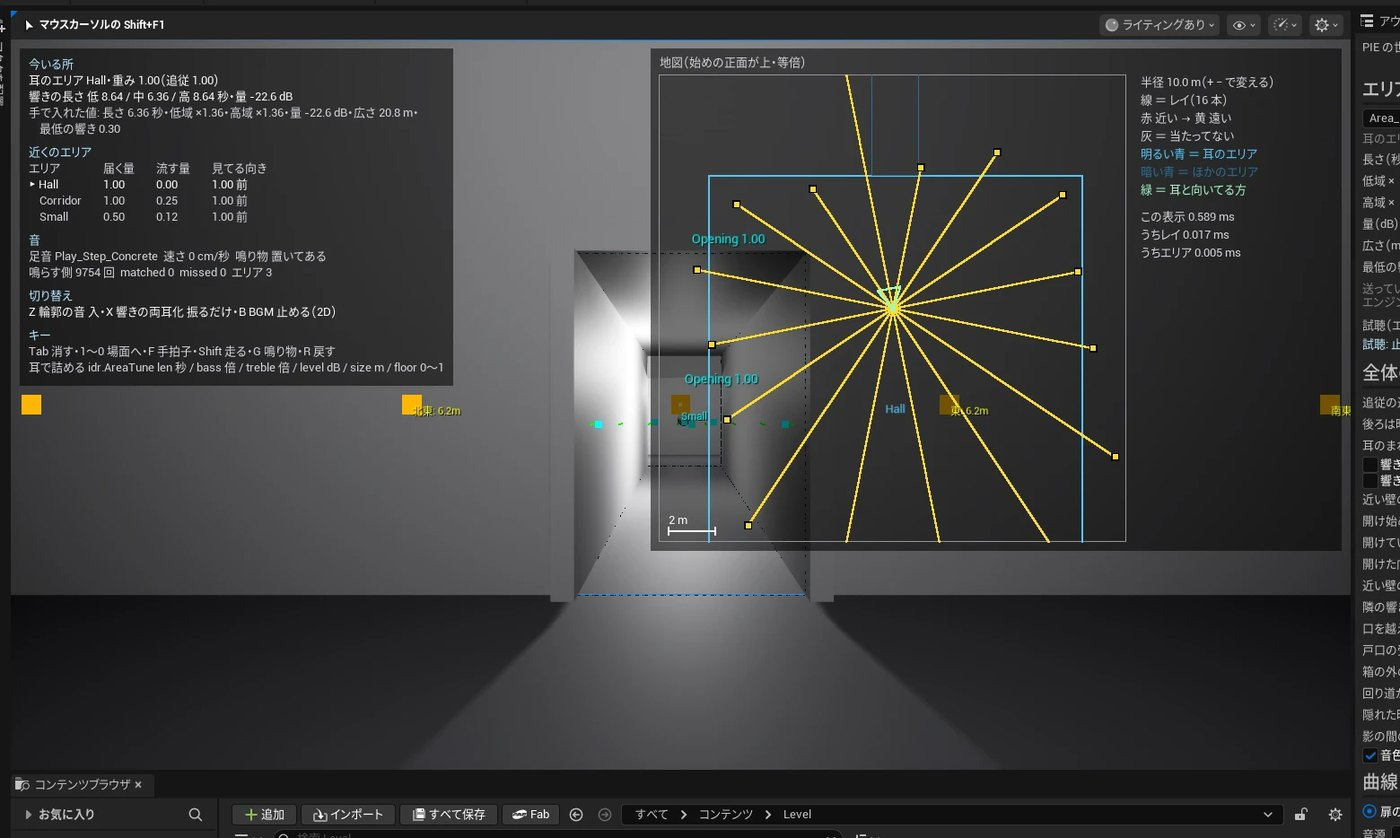
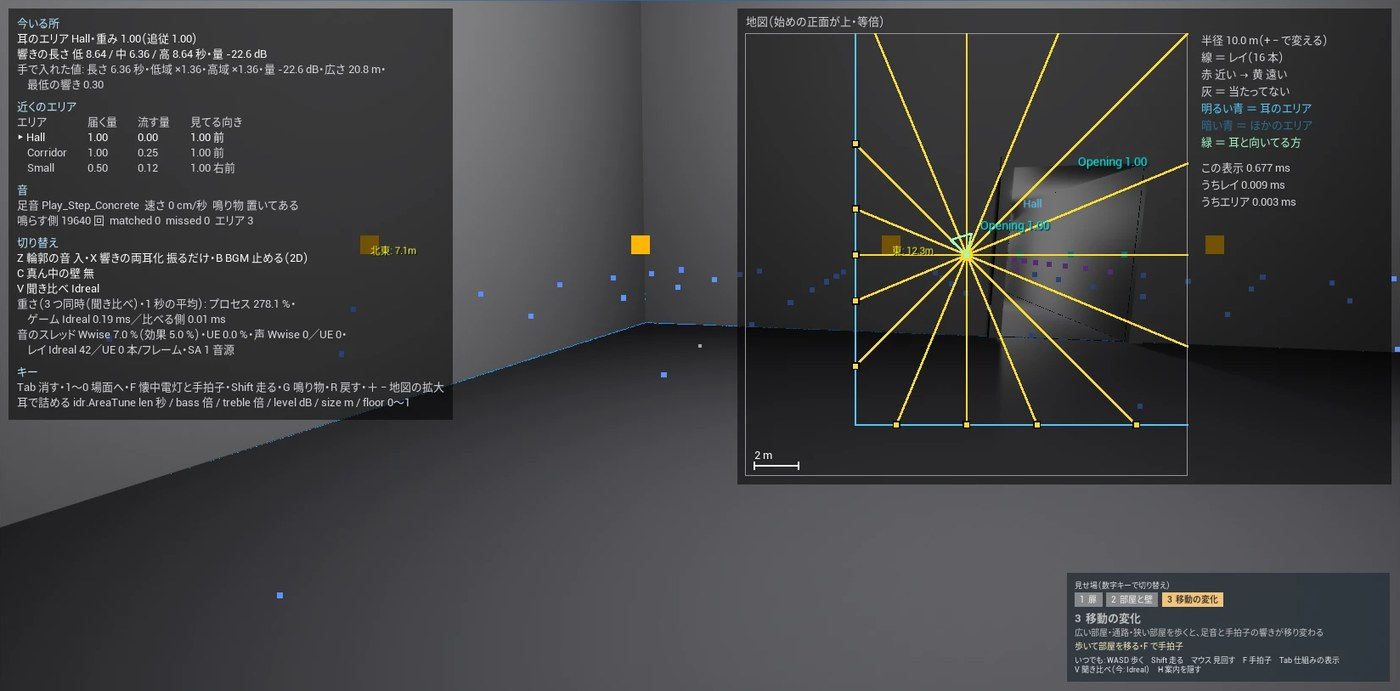
作品の画像: 探索型ホラーゲーム（新規、左上の 0/4 を外して 16:9）・IdReal（差し替え、窓の縁だけ外して横長のまま）。制作中の印（IdReal・ホラー・友人作品A・B）。好きなゲーム体験: 見出しを変え、帯をループに（同じ 1 組を 5 組並べて端で 1 組戻す）

diff --git a/index.html b/index.html
@@ -243,6 +243,11 @@ button{font:inherit}
 .w-pts p{font-size:13px; color:var(--night-muted); line-height:1.7; margin-top:2px}
 .w-more{display:inline-block; margin-top:28px; padding:9px 36px; border:1px solid var(--wa); border-radius:3px; color:var(--wa); font-family:var(--f-label); font-size:13px; letter-spacing:.22em; text-decoration:none}
 .w-more[aria-disabled="true"]{opacity:.45; cursor:default}
+/* 制作中の印（題の横、点がゆっくり明滅） */
+.w-wip{display:inline-flex; align-items:center; gap:7px; margin-left:16px; padding:3px 12px 3px 10px; border:1px solid var(--wa); border-radius:999px; color:var(--wa); font-family:var(--f-body); font-weight:700; font-size:13px; letter-spacing:.12em; line-height:1.5; vertical-align:middle; white-space:nowrap; transform:translateY(-.12em)}
+.w-wip::before{content:""; width:7px; height:7px; border-radius:50%; background:currentColor; animation:wip 1.8s ease-in-out infinite}
+@keyframes wip{50%{opacity:.2}}
+@media (prefers-reduced-motion: reduce){ .w-wip::before{animation:none} }
 /* 作品の概要の表（人数・期間・担当・環境）。注目点の見出しのすぐ下、こだわり 2 つの上 */
 .w-facts{margin:14px 0 0}
 .w-facts div{display:grid; grid-template-columns:3.6em minmax(0,1fr); column-gap:14px; padding:7px 0; border-bottom:1px solid var(--night-line)}
@@ -272,11 +277,12 @@ button{font:inherit}
   .w-pts p{font-size:15.5px; line-height:1.85; margin-top:4px}
   .w-facts dt{font-size:14px}
   .w-facts dd{font-size:15.5px}
+  .w-wip{font-size:14px}
   .w-more{display:block; width:fit-content; margin:clamp(32px, 6vh, 68px) auto 0; padding:15px 68px; font-size:16px; letter-spacing:.26em}  /* 右へ寄せて（注目点の真ん中）・離して・大きく */
 }
 @media (max-width:480px){ .w-pts{grid-template-columns:minmax(0,1fr); gap:16px} }
 
-/* 02 の続き：ゲームでの好きな体験。左にスクショのモザイク（3 段、横に流す）、右に解説。--fc は選んだ 1 本の色。
+/* 02 の続き：好きなゲーム体験。左にスクショのモザイク（3 段、横に流す）、右に解説。--fc は選んだ 1 本の色。
    背景は選んだ 1 本の色のにじみ、画像があればそれをぼかして暗くした物 */
 .p-fav{background:var(--black)}
 .p-fav .bg{background:radial-gradient(ellipse 55% 60% at 30% 55%, color-mix(in srgb, var(--fc, #7DB8D1) 16%, transparent), transparent 70%), var(--black)}
@@ -302,7 +308,6 @@ button{font:inherit}
 .fav-ctrl{display:flex; align-items:center; gap:10px; margin-top:12px}
 .fav-arrow{flex:none; width:40px; height:40px; display:grid; place-items:center; border:1px solid var(--night-line); border-radius:50%; background:rgba(255,255,255,.04); color:var(--night-ink); cursor:pointer}
 .fav-arrow svg{width:18px; height:18px}
-.fav-arrow:disabled{opacity:.3; cursor:default}
 .fav-hint{margin-left:6px; font-size:12.5px; color:var(--night-muted)}
 .fav-hint .sp{display:none}
 @media (max-width:860px){ .fav-hint .pc{display:none} .fav-hint .sp{display:inline} }
@@ -573,7 +578,7 @@ button{font:inherit}
     </div>
   </section>
 
-  <!-- 02 の続き：ゲームでの好きな体験。左にスクショのモザイク（横に流す）、押すと右（スマホは下）に解説。
+  <!-- 02 の続き：好きなゲーム体験。左にスクショのモザイク（横に流す、ループする）、押すと右（スマホは下）に解説。
        1 本 = li 1 つ。場所は style の grid-area（行 / 列 / 縦の数 / 横の数、3 段）、色は --fc。
        画像は .fav-tile の中に img（自分で撮ったスクショ）、解説は .fav-info の中（押すと右の欄へ写す） -->
   <section class="panel dark p-fav" id="fav" data-nav="profile" aria-labelledby="h-fav">
@@ -581,14 +586,14 @@ button{font:inherit}
     <div class="wrap">
       <div class="fav-head">
         <p class="eyebrow"><span class="no">01</span>Favorite Games</p>
-        <h2 id="h-fav">ゲームでの好きな体験</h2>
+        <h2 id="h-fav">好きなゲーム体験</h2>
       </div>
       <div class="fav-grid">
         <div class="fav-left">
           <div class="fav-strip" id="fav-strip">
             <ul class="fav-tiles">
               <li style="grid-area:1/1/span 2/span 2; --fc:#5E8FB0">
-                <button type="button" class="fav-tile" aria-controls="fav-detail" aria-pressed="false" aria-label="好きな体験 01（準備中）"><span class="fav-tag">01</span><span class="fav-ph" aria-hidden="true">SCREENSHOT</span></button>
+                <button type="button" class="fav-tile" aria-controls="fav-detail" aria-pressed="false" aria-label="好きなゲーム体験 01（準備中）"><span class="fav-tag">01</span><span class="fav-ph" aria-hidden="true">SCREENSHOT</span></button>
                 <div class="fav-info" hidden>
                   <h3 class="fav-title"><span class="todo">ゲーム名（準備中）</span></h3>
                   <p class="fav-scene"><span class="todo">場面（準備中）</span></p>
@@ -602,7 +607,7 @@ button{font:inherit}
                 </div>
               </li>
               <li style="grid-area:3/1/span 1/span 2; --fc:#B07A5E">
-                <button type="button" class="fav-tile" aria-controls="fav-detail" aria-pressed="false" aria-label="好きな体験 02（準備中）"><span class="fav-tag">02</span><span class="fav-ph" aria-hidden="true">SCREENSHOT</span></button>
+                <button type="button" class="fav-tile" aria-controls="fav-detail" aria-pressed="false" aria-label="好きなゲーム体験 02（準備中）"><span class="fav-tag">02</span><span class="fav-ph" aria-hidden="true">SCREENSHOT</span></button>
                 <div class="fav-info" hidden>
                   <h3 class="fav-title"><span class="todo">ゲーム名（準備中）</span></h3>
                   <p class="fav-scene"><span class="todo">場面（準備中）</span></p>
@@ -616,7 +621,7 @@ button{font:inherit}
                 </div>
               </li>
               <li style="grid-area:1/3/span 1/span 1; --fc:#8A7BB8">
-                <button type="button" class="fav-tile" aria-controls="fav-detail" aria-pressed="false" aria-label="好きな体験 03（準備中）"><span class="fav-tag">03</span><span class="fav-ph" aria-hidden="true">SCREENSHOT</span></button>
+                <button type="button" class="fav-tile" aria-controls="fav-detail" aria-pressed="false" aria-label="好きなゲーム体験 03（準備中）"><span class="fav-tag">03</span><span class="fav-ph" aria-hidden="true">SCREENSHOT</span></button>
                 <div class="fav-info" hidden>
                   <h3 class="fav-title"><span class="todo">ゲーム名（準備中）</span></h3>
                   <p class="fav-scene"><span class="todo">場面（準備中）</span></p>
@@ -630,7 +635,7 @@ button{font:inherit}
                 </div>
               </li>
               <li style="grid-area:2/3/span 2/span 1; --fc:#6FA287">
-                <button type="button" class="fav-tile" aria-controls="fav-detail" aria-pressed="false" aria-label="好きな体験 04（準備中）"><span class="fav-tag">04</span><span class="fav-ph" aria-hidden="true">SCREENSHOT</span></button>
+                <button type="button" class="fav-tile" aria-controls="fav-detail" aria-pressed="false" aria-label="好きなゲーム体験 04（準備中）"><span class="fav-tag">04</span><span class="fav-ph" aria-hidden="true">SCREENSHOT</span></button>
                 <div class="fav-info" hidden>
                   <h3 class="fav-title"><span class="todo">ゲーム名（準備中）</span></h3>
                   <p class="fav-scene"><span class="todo">場面（準備中）</span></p>
@@ -644,7 +649,7 @@ button{font:inherit}
                 </div>
               </li>
               <li style="grid-area:1/4/span 1/span 2; --fc:#B8A05E">
-                <button type="button" class="fav-tile" aria-controls="fav-detail" aria-pressed="false" aria-label="好きな体験 05（準備中）"><span class="fav-tag">05</span><span class="fav-ph" aria-hidden="true">SCREENSHOT</span></button>
+                <button type="button" class="fav-tile" aria-controls="fav-detail" aria-pressed="false" aria-label="好きなゲーム体験 05（準備中）"><span class="fav-tag">05</span><span class="fav-ph" aria-hidden="true">SCREENSHOT</span></button>
                 <div class="fav-info" hidden>
                   <h3 class="fav-title"><span class="todo">ゲーム名（準備中）</span></h3>
                   <p class="fav-scene"><span class="todo">場面（準備中）</span></p>
@@ -658,7 +663,7 @@ button{font:inherit}
                 </div>
               </li>
               <li style="grid-area:2/4/span 1/span 1; --fc:#B06A84">
-                <button type="button" class="fav-tile" aria-controls="fav-detail" aria-pressed="false" aria-label="好きな体験 06（準備中）"><span class="fav-tag">06</span><span class="fav-ph" aria-hidden="true">SCREENSHOT</span></button>
+                <button type="button" class="fav-tile" aria-controls="fav-detail" aria-pressed="false" aria-label="好きなゲーム体験 06（準備中）"><span class="fav-tag">06</span><span class="fav-ph" aria-hidden="true">SCREENSHOT</span></button>
                 <div class="fav-info" hidden>
                   <h3 class="fav-title"><span class="todo">ゲーム名（準備中）</span></h3>
                   <p class="fav-scene"><span class="todo">場面（準備中）</span></p>
@@ -672,7 +677,7 @@ button{font:inherit}
                 </div>
               </li>
               <li style="grid-area:2/5/span 1/span 1; --fc:#5EA6A2">
-                <button type="button" class="fav-tile" aria-controls="fav-detail" aria-pressed="false" aria-label="好きな体験 07（準備中）"><span class="fav-tag">07</span><span class="fav-ph" aria-hidden="true">SCREENSHOT</span></button>
+                <button type="button" class="fav-tile" aria-controls="fav-detail" aria-pressed="false" aria-label="好きなゲーム体験 07（準備中）"><span class="fav-tag">07</span><span class="fav-ph" aria-hidden="true">SCREENSHOT</span></button>
                 <div class="fav-info" hidden>
                   <h3 class="fav-title"><span class="todo">ゲーム名（準備中）</span></h3>
                   <p class="fav-scene"><span class="todo">場面（準備中）</span></p>
@@ -686,7 +691,7 @@ button{font:inherit}
                 </div>
               </li>
               <li style="grid-area:3/4/span 1/span 2; --fc:#9A8F7E">
-                <button type="button" class="fav-tile" aria-controls="fav-detail" aria-pressed="false" aria-label="好きな体験 08（準備中）"><span class="fav-tag">08</span><span class="fav-ph" aria-hidden="true">SCREENSHOT</span></button>
+                <button type="button" class="fav-tile" aria-controls="fav-detail" aria-pressed="false" aria-label="好きなゲーム体験 08（準備中）"><span class="fav-tag">08</span><span class="fav-ph" aria-hidden="true">SCREENSHOT</span></button>
                 <div class="fav-info" hidden>
                   <h3 class="fav-title"><span class="todo">ゲーム名（準備中）</span></h3>
                   <p class="fav-scene"><span class="todo">場面（準備中）</span></p>
@@ -700,7 +705,7 @@ button{font:inherit}
                 </div>
               </li>
               <li style="grid-area:1/6/span 2/span 2; --fc:#7F96C8">
-                <button type="button" class="fav-tile" aria-controls="fav-detail" aria-pressed="false" aria-label="好きな体験 09（準備中）"><span class="fav-tag">09</span><span class="fav-ph" aria-hidden="true">SCREENSHOT</span></button>
+                <button type="button" class="fav-tile" aria-controls="fav-detail" aria-pressed="false" aria-label="好きなゲーム体験 09（準備中）"><span class="fav-tag">09</span><span class="fav-ph" aria-hidden="true">SCREENSHOT</span></button>
                 <div class="fav-info" hidden>
                   <h3 class="fav-title"><span class="todo">ゲーム名（準備中）</span></h3>
                   <p class="fav-scene"><span class="todo">場面（準備中）</span></p>
@@ -714,7 +719,7 @@ button{font:inherit}
                 </div>
               </li>
               <li style="grid-area:3/6/span 1/span 2; --fc:#C08A5A">
-                <button type="button" class="fav-tile" aria-controls="fav-detail" aria-pressed="false" aria-label="好きな体験 10（準備中）"><span class="fav-tag">10</span><span class="fav-ph" aria-hidden="true">SCREENSHOT</span></button>
+                <button type="button" class="fav-tile" aria-controls="fav-detail" aria-pressed="false" aria-label="好きなゲーム体験 10（準備中）"><span class="fav-tag">10</span><span class="fav-ph" aria-hidden="true">SCREENSHOT</span></button>
                 <div class="fav-info" hidden>
                   <h3 class="fav-title"><span class="todo">ゲーム名（準備中）</span></h3>
                   <p class="fav-scene"><span class="todo">場面（準備中）</span></p>
@@ -750,10 +755,10 @@ button{font:inherit}
       <div class="w-grid">
         <div class="w-head">
           <p class="eyebrow"><span class="no">02</span>Works <span class="w-idx">01 / 07</span></p>
-          <h2 id="w1-title">IdReal</h2>
+          <h2 id="w1-title">IdReal<span class="w-wip">制作中</span></h2>
           <p class="w-lead">自作の音響エンジン。部屋ごとの残響、遮蔽、直接音の定位。</p>
         </div>
-        <div class="w-shot"><img src="img/works/idreal.jpg" width="1400" height="838" alt="IdReal のデバッグ表示（耳のまわりのレイと部屋の地図）" decoding="async"></div>
+        <div class="w-shot" style="aspect-ratio:1400/691"><img src="img/works/idreal.jpg?v=2" width="1400" height="691" alt="IdReal のデバッグ表示（今いるエリアの響きの値と、耳から出る 16 本のレイを描いた部屋の地図）" decoding="async"></div>
         <div class="w-detail">
           <div class="w-pts-head">
             <h3>プロジェクト注目点</h3>
@@ -774,10 +779,10 @@ button{font:inherit}
       <div class="w-grid">
         <div class="w-head">
           <p class="eyebrow"><span class="no">02</span>Works <span class="w-idx">02 / 07</span></p>
-          <h2 id="w2-title">探索型ホラーゲーム</h2>
+          <h2 id="w2-title">探索型ホラーゲーム<span class="w-wip">制作中</span></h2>
           <p class="w-lead">足音と響きで怖さを伝える探索ゲーム。Unreal Engine 5.6 ＋ Wwise。</p>
         </div>
-        <div class="w-shot">画像 準備中</div>
+        <div class="w-shot"><img src="img/works/horror.jpg" width="1400" height="788" alt="探索型ホラーゲームの画面（懐中電灯で照らした暗い部屋、隅に人形、奥に扉）" decoding="async"></div>
         <div class="w-detail">
           <div class="w-pts-head">
             <h3>プロジェクト注目点</h3>
@@ -870,7 +875,7 @@ button{font:inherit}
       <div class="w-grid">
         <div class="w-head">
           <p class="eyebrow"><span class="no">02</span>Works <span class="w-idx">06 / 07</span></p>
-          <h2 id="w6-title">友人作品A</h2>
+          <h2 id="w6-title">友人作品A<span class="w-wip">制作中</span></h2>
           <p class="w-lead"><span class="todo">準備中</span></p>
         </div>
         <div class="w-shot">画像 準備中</div>
@@ -894,7 +899,7 @@ button{font:inherit}
       <div class="w-grid">
         <div class="w-head">
           <p class="eyebrow"><span class="no">02</span>Works <span class="w-idx">07 / 07</span></p>
-          <h2 id="w7-title">友人作品B</h2>
+          <h2 id="w7-title">友人作品B<span class="w-wip">制作中</span></h2>
           <p class="w-lead"><span class="todo">準備中</span></p>
         </div>
         <div class="w-shot">画像 準備中</div>
@@ -1185,18 +1190,50 @@ button{font:inherit}
   document.addEventListener('visibilitychange', function(){ if (document.hidden) stop(); });
   if (document.fonts && document.fonts.ready) document.fonts.ready.then(function(){ frame(performance.now() / 1000); });
 
-  // ---- 好きな体験：タイルを押すと右（スマホは下）に解説。横はドラッグ・← → でも動く ----
-  // 縦のホイールは今までどおり次の節へ（横のスクロールだけブラウザに任せている）
+  // ---- 好きなゲーム体験：タイルを押すと右（スマホは下）に解説。帯はループする ----
+  // 同じ 1 組（li の並び）を 5 組並べて真ん中の組（元の li）を見せ、端へ寄ったら 1 組ぶん戻す（見た目が同じなので継ぎ目は見えない）。
+  // 横はタッチパッド・ドラッグ・← →。縦のホイールは今までどおり次の節へ
   (function(){
     var sec = document.getElementById('fav');
     if (!sec) return;
-    var strip = document.getElementById('fav-strip');
-    var items = Array.prototype.slice.call(sec.querySelectorAll('.fav-tiles > li'));
+    var strip = document.getElementById('fav-strip'), list = strip.querySelector('.fav-tiles');
+    var items = Array.prototype.slice.call(list.children);
     var noEl = sec.querySelector('.fav-no'), body = sec.querySelector('.fav-body'), arrows = sec.querySelectorAll('.fav-arrow');
-    var dragging = false, dragMoved = false, dragX = 0, dragL = 0;
+    var COPIES = 5, MID = 2, cols = 0, copies = [];
+    var base = items.map(function(li){ return parseInt(li.style.gridColumnStart, 10) || 1; });
+    items.forEach(function(li, i){ cols = Math.max(cols, base[i] + (parseInt((li.style.gridColumnEnd || '').replace('span', ''), 10) || 1) - 1); });
+    // 組を作る（真ん中は元の li、ほかは写し：読み上げ・Tab の対象にしない）
+    for (var k = 0; k < COPIES; k++){
+      copies.push(items.map(function(li, i){
+        var c = li;
+        if (k !== MID){
+          c = li.cloneNode(true);
+          c.setAttribute('aria-hidden', 'true');
+          c.querySelector('.fav-tile').setAttribute('tabindex', '-1');
+          var inf = c.querySelector('.fav-info'); if (inf) inf.parentNode.removeChild(inf);
+        }
+        c.style.gridColumnStart = String(base[i] + cols * k);
+        return c;
+      }));
+    }
+    var pre = document.createDocumentFragment(), post = document.createDocumentFragment();
+    copies.forEach(function(set, k){ if (k !== MID) set.forEach(function(c){ (k < MID ? pre : post).appendChild(c); }); });
+    list.insertBefore(pre, list.firstChild); list.appendChild(post);
+
+    var dragging = false, dragMoved = false, dragX = 0, dragL = 0, touching = false, glideAnim = null, idle = 0;
+    function setW(){ return copies[1][0].offsetLeft - copies[0][0].offsetLeft; }
+    // 今の位置が lo〜hi 組の外なら 1 組ずつ戻す。戻した量を返す
+    function wrap(lo, hi){
+      var W = setW(); if (W <= 0) return 0;
+      var x = strip.scrollLeft, d = 0;
+      while (x + d < W * lo) d += W;
+      while (x + d > W * hi) d -= W;
+      if (d) strip.scrollLeft = x + d;
+      return d;
+    }
     function pad(n){ return (n < 10 ? '0' : '') + n; }
     function select(i){
-      items.forEach(function(li, k){ li.querySelector('.fav-tile').setAttribute('aria-pressed', k === i ? 'true' : 'false'); });
+      copies.forEach(function(set){ set.forEach(function(li, j){ li.querySelector('.fav-tile').setAttribute('aria-pressed', j === i ? 'true' : 'false'); }); });
       var li = items[i], info = li.querySelector('.fav-info'), img = li.querySelector('.fav-tile img');
       body.innerHTML = info ? info.innerHTML : '';
       noEl.textContent = pad(i + 1) + ' / ' + pad(items.length);
@@ -1204,46 +1241,70 @@ button{font:inherit}
       if (img){ sec.style.setProperty('--shot', 'url("' + img.getAttribute('src') + '")'); sec.classList.add('has-shot'); }
       else sec.classList.remove('has-shot');
     }
+    copies.forEach(function(set){
+      set.forEach(function(li, i){
+        li.querySelector('.fav-tile').addEventListener('click', function(e){ if (dragMoved){ e.preventDefault(); return; } select(i); });
+      });
+    });
+    // ← → キーで隣の 1 本へ（端からは反対の端へ）
     items.forEach(function(li, i){
-      var b = li.querySelector('.fav-tile');
-      b.addEventListener('click', function(e){ if (dragMoved){ e.preventDefault(); return; } select(i); });
-      // ← → で隣の 1 本へ
-      b.addEventListener('keydown', function(e){
+      li.querySelector('.fav-tile').addEventListener('keydown', function(e){
         if (e.key !== 'ArrowRight' && e.key !== 'ArrowLeft') return;
-        var j = i + (e.key === 'ArrowRight' ? 1 : -1);
-        if (j < 0 || j >= items.length) return;
         e.preventDefault();
+        var j = (i + (e.key === 'ArrowRight' ? 1 : -1) + items.length) % items.length;
         items[j].querySelector('.fav-tile').focus();
         select(j);
       });
     });
-    function upd(){
-      var m = strip.scrollWidth - strip.clientWidth;
-      arrows[0].disabled = strip.scrollLeft <= 2;
-      arrows[1].disabled = strip.scrollLeft >= m - 2;
+    // ← → のボタン：0.8 画面ぶん滑らせる（途中で継ぎ目を越えたら行き先ごと 1 組戻す）
+    function glide(dist){
+      if (reduce){ strip.scrollLeft += dist; wrap(1.4, 2.7); return; }
+      var from = strip.scrollLeft, to = from + dist, t0 = performance.now(), me = {};
+      glideAnim = me;
+      (function step(now){
+        if (glideAnim !== me) return;
+        var t = Math.min(1, Math.max(0, (now - t0) / 480)), e = 1 - Math.pow(1 - t, 3);
+        strip.scrollLeft = from + (to - from) * e;
+        var d = wrap(1, 3); if (d){ from += d; to += d; }
+        if (t < 1) requestAnimationFrame(step); else glideAnim = null;
+      })(t0);
     }
-    arrows.forEach(function(a){
-      a.addEventListener('click', function(){ strip.scrollBy({left: +a.dataset.dir * strip.clientWidth * 0.8, behavior: reduce ? 'auto' : 'smooth'}); });
-    });
-    strip.addEventListener('scroll', upd, {passive: true});
-    window.addEventListener('resize', upd);
+    arrows.forEach(function(a){ a.addEventListener('click', function(){ glide(+a.dataset.dir * strip.clientWidth * 0.8); }); });
+    // 指やタッチパッドで動かした後は、止まってから真ん中の組へ戻す（動いている最中に位置を変えると慣性が止まるので）
+    strip.addEventListener('scroll', function(){
+      if (!touching && !dragging && !glideAnim) wrap(0.5, 3.5);
+      clearTimeout(idle);
+      idle = setTimeout(function(){ if (!touching && !dragging && !glideAnim) wrap(1.4, 2.7); }, 160);
+    }, {passive: true});
+    strip.addEventListener('touchstart', function(){ touching = true; glideAnim = null; }, {passive: true});
+    strip.addEventListener('touchend', function(){ touching = false; }, {passive: true});
+    strip.addEventListener('touchcancel', function(){ touching = false; }, {passive: true});
     // マウスはつかんで横に動かせる（6 px 以上動いたらドラッグ扱い、その時は押した扱いにしない）
     strip.addEventListener('pointerdown', function(e){
       if (e.pointerType !== 'mouse' || e.button !== 0) return;
-      dragging = true; dragMoved = false; dragX = e.clientX; dragL = strip.scrollLeft;
+      glideAnim = null; dragging = true; dragMoved = false; dragX = e.clientX; dragL = strip.scrollLeft;
     });
     window.addEventListener('pointermove', function(e){
       if (!dragging) return;
       var dx = e.clientX - dragX;
       if (!dragMoved && Math.abs(dx) > 6){ dragMoved = true; strip.classList.add('dragging'); }
-      if (dragMoved) strip.scrollLeft = dragL - dx;
+      if (!dragMoved) return;
+      strip.scrollLeft = dragL - dx;
+      dragL += wrap(1, 3);
     });
     window.addEventListener('pointerup', function(){
       if (!dragging) return;
       dragging = false; strip.classList.remove('dragging');
       setTimeout(function(){ dragMoved = false; }, 0);
     });
-    select(0); upd();
+    // 画面の大きさが変わったら、組の中の同じ所を保つ
+    var lastW = setW();
+    window.addEventListener('resize', function(){
+      var W = setW(); if (W <= 0 || lastW <= 0){ lastW = W; return; }
+      strip.scrollLeft = strip.scrollLeft / lastW * W; lastW = W; wrap(1.4, 2.7);
+    });
+    strip.scrollLeft = setW() * MID;
+    select(0);
   })();
 
   // ---- 開いた時に #名前 があればそこへ ----
